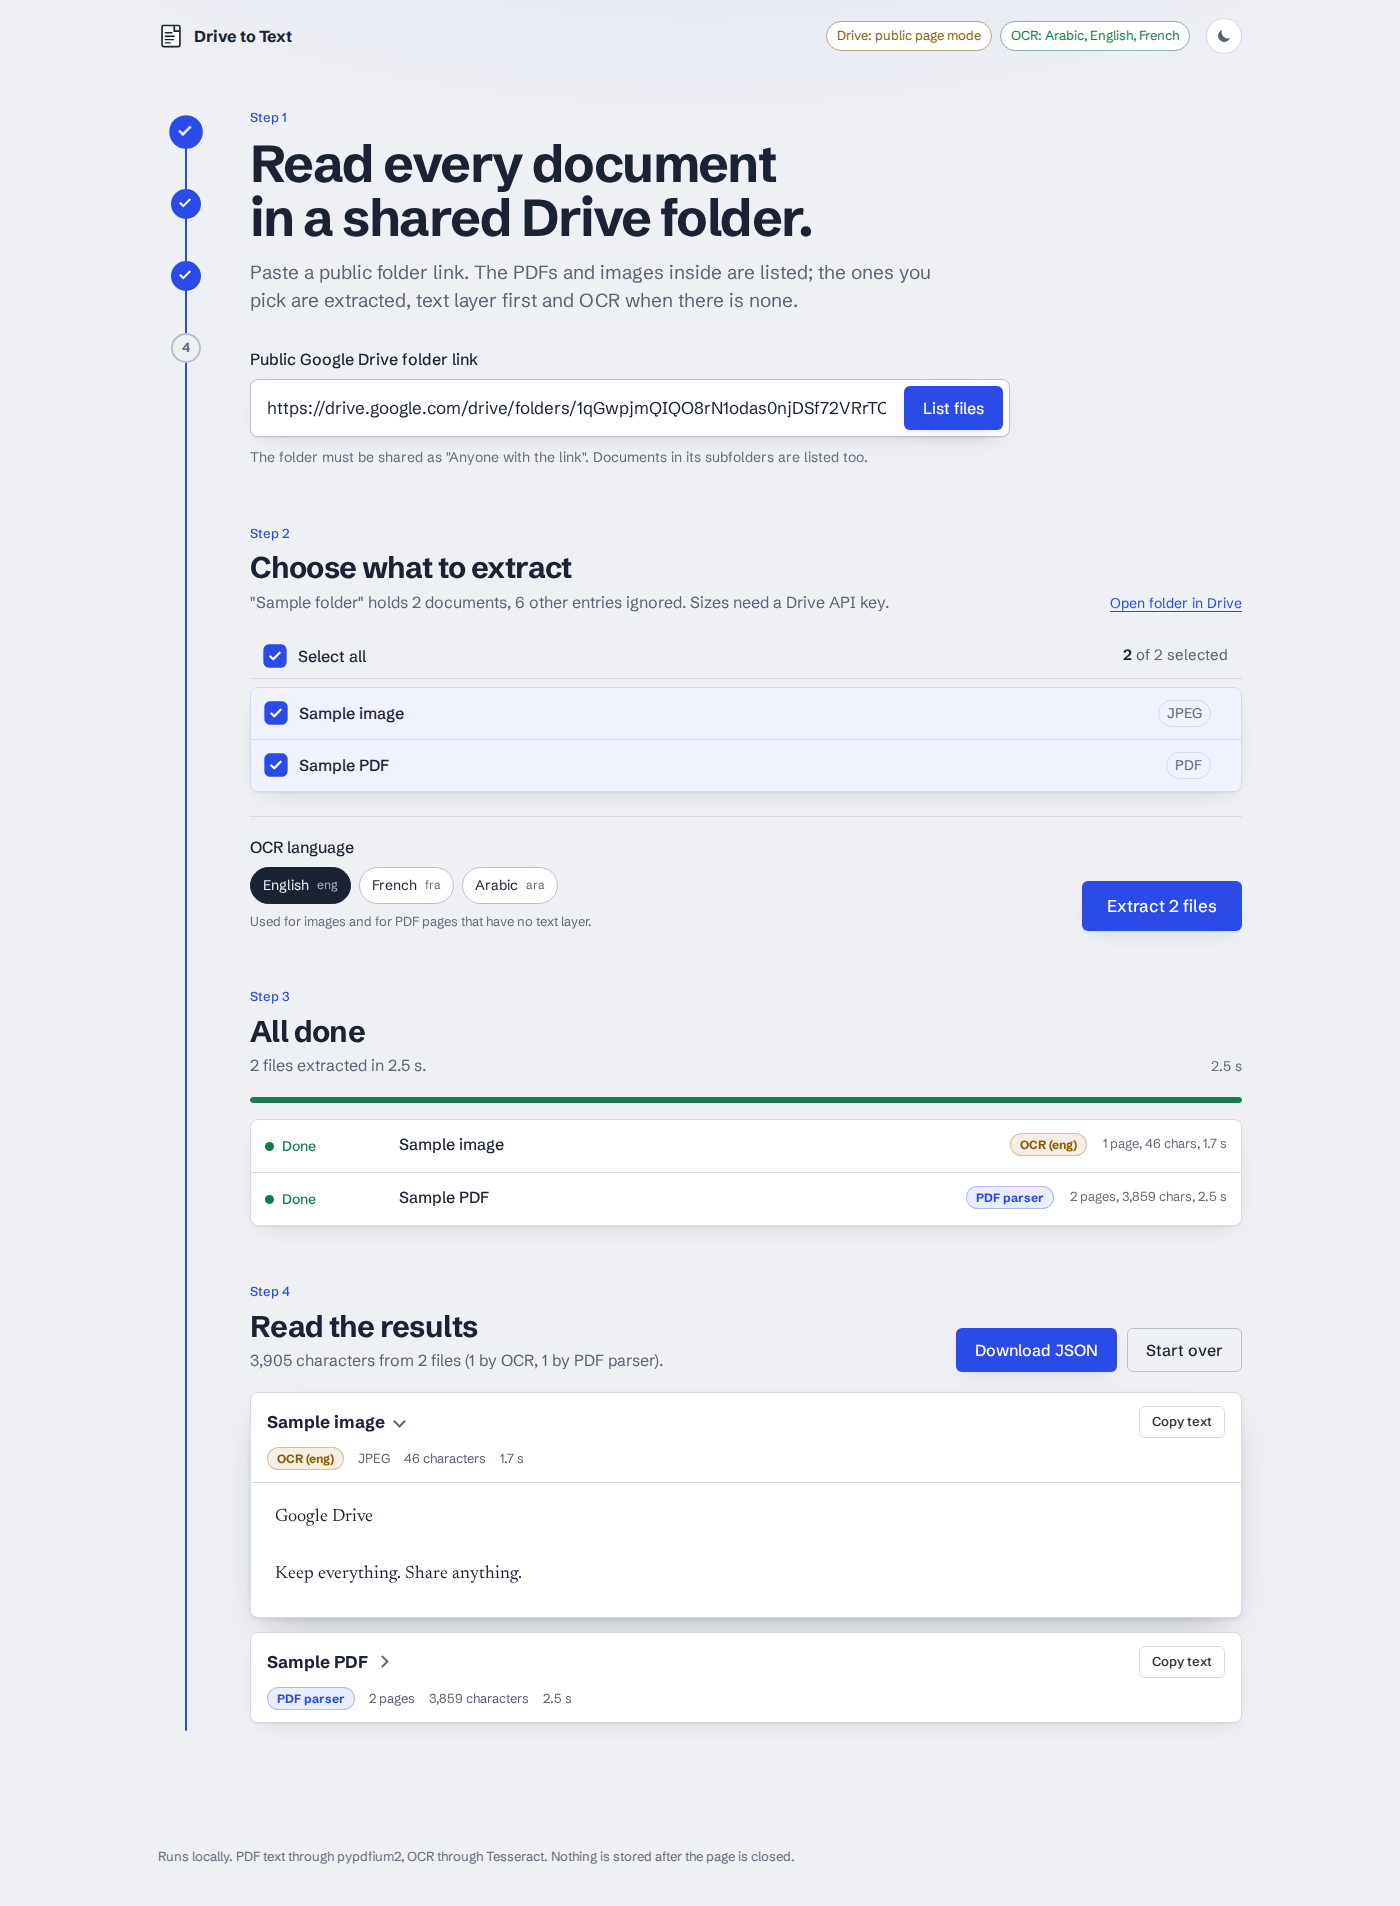
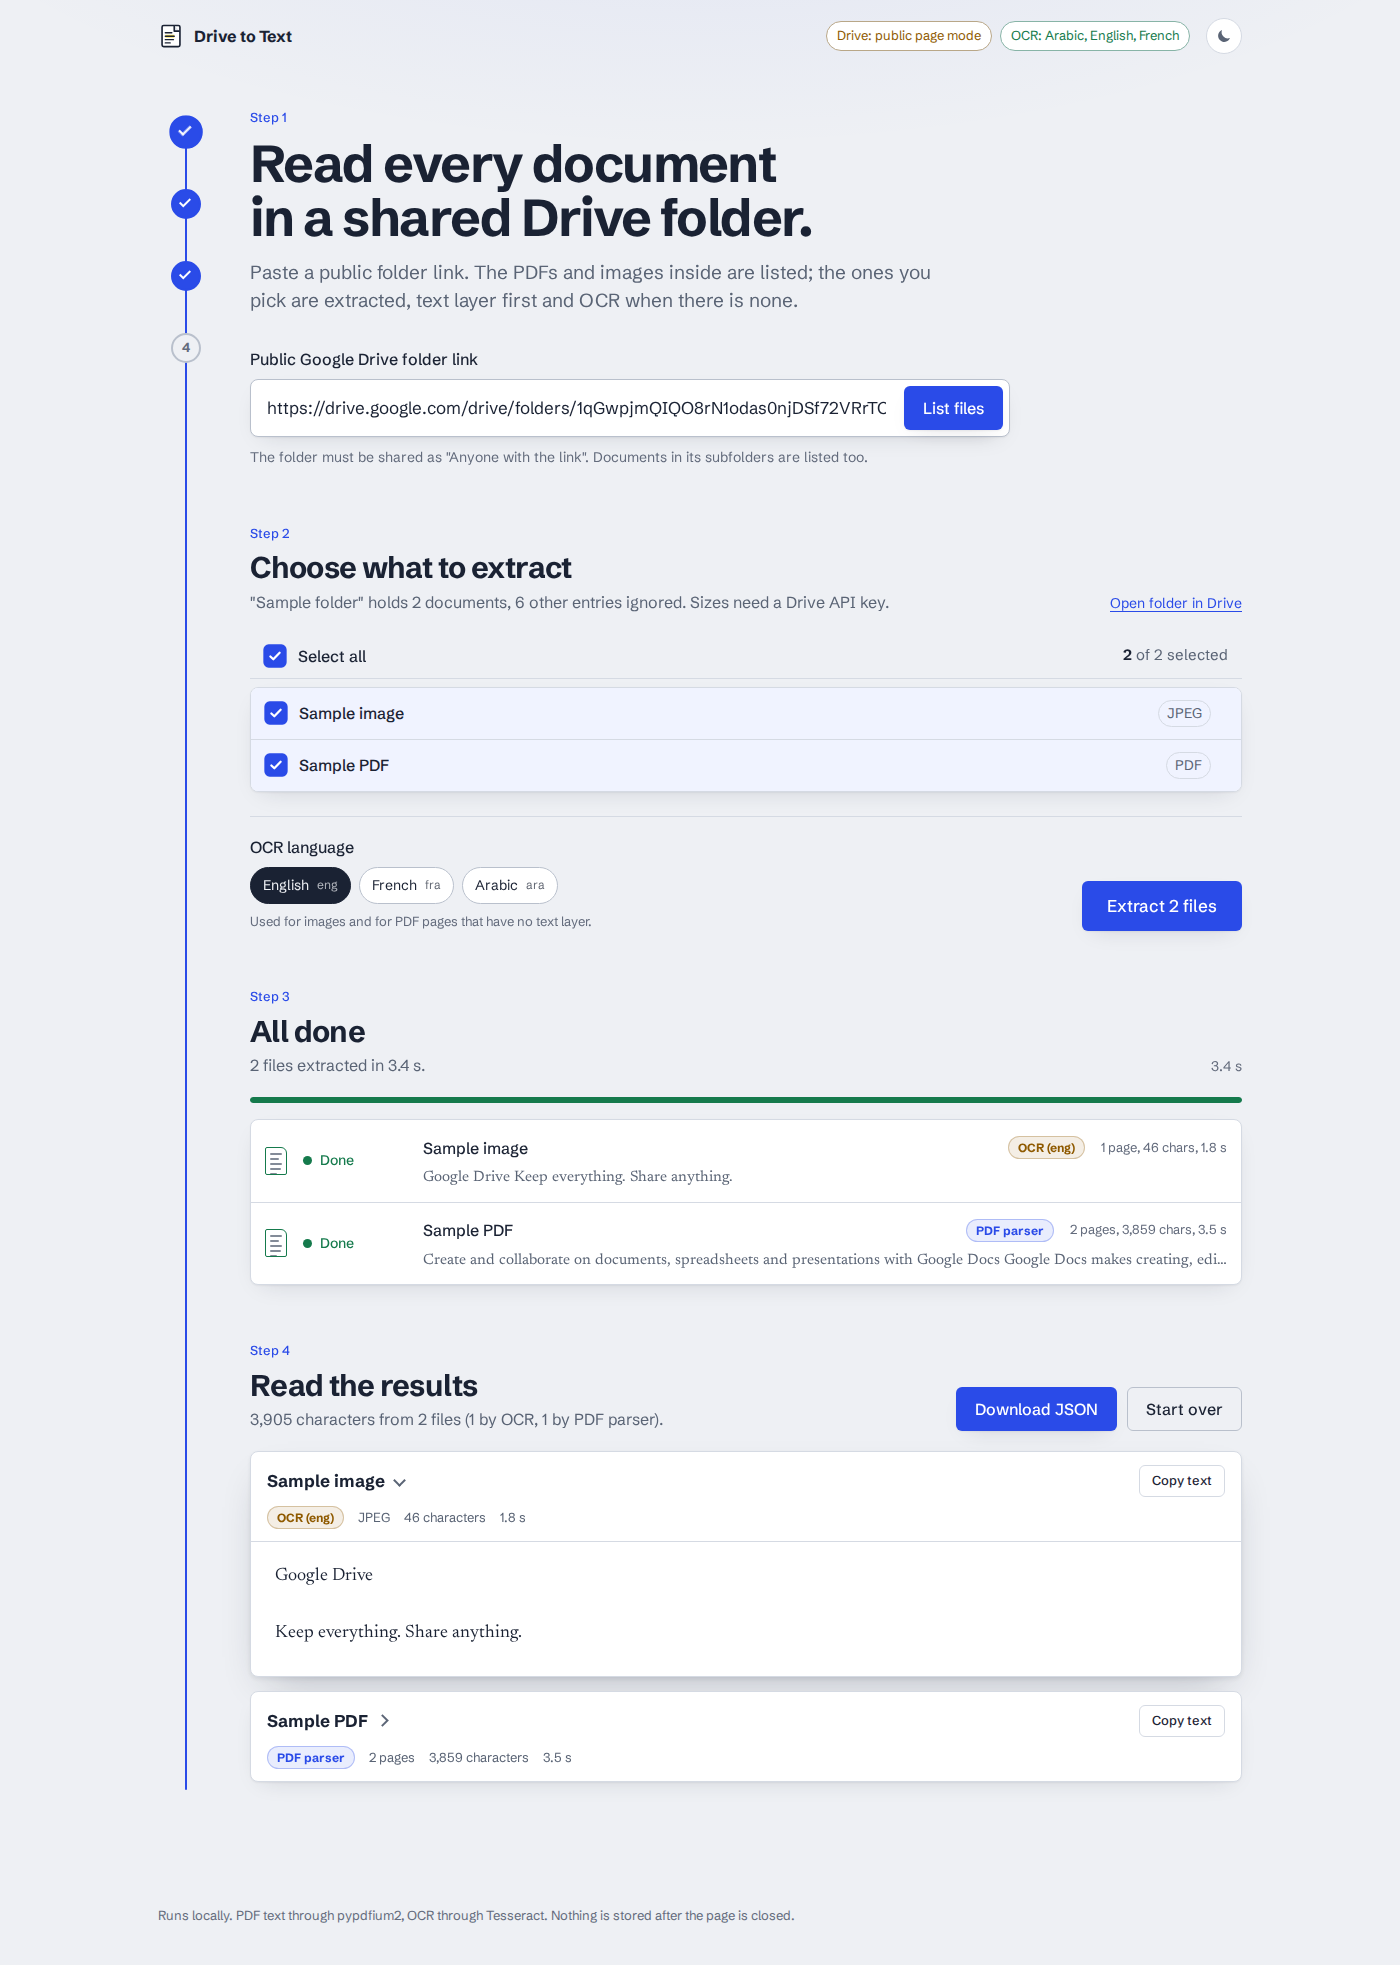
add new animation

diff --git a/app/static/styles.css b/app/static/styles.css
@@ -32,6 +32,7 @@
   --font-read: "Newsreader", "Iowan Old Style", "Palatino Linotype", Georgia, "Noto Naskh Arabic", serif;
   --ease-out: cubic-bezier(0.2, 0.7, 0.2, 1);
   --ease-spring: cubic-bezier(0.34, 1.4, 0.64, 1);
+  --ease-in-out: cubic-bezier(0.77, 0, 0.175, 1);
   --t-fast: 160ms;
   --t-base: 280ms;
   --t-slow: 520ms;
@@ -416,12 +417,11 @@ a:hover { color: var(--blue-deep); }
 .button-small:hover { border-color: var(--rule-strong); }
 
 /* Loader: a sheet being read. Its lines fill in one after another, the same sheet as
-   the app icon. Used in busy buttons and on files being processed. */
+   the app icon. Used in busy buttons; files being processed get the larger .job-page. */
 .button-spinner { display: none; }
 .button.is-busy .button-spinner { display: inline-block; }
 .button.is-busy .button-label { opacity: 0.85; }
-.button-spinner,
-.job-row[data-status="processing"] .job-dot {
+.button-spinner {
   position: relative;
   flex: none;
   width: 14px;
@@ -431,8 +431,7 @@ a:hover { color: var(--blue-deep); }
   background: none;
   overflow: hidden;
 }
-.button-spinner::before,
-.job-row[data-status="processing"] .job-dot::before {
+.button-spinner::before {
   content: "";
   position: absolute;
   z-index: 1;
@@ -441,8 +440,7 @@ a:hover { color: var(--blue-deep); }
   background: repeating-linear-gradient(to bottom, currentColor 0 1.5px, transparent 1.5px 4px);
   opacity: 0.3;
 }
-.button-spinner::after,
-.job-row[data-status="processing"] .job-dot::after {
+.button-spinner::after {
   content: "";
   position: absolute;
   left: 1px;
@@ -499,6 +497,80 @@ a:hover { color: var(--blue-deep); }
 
 .field-error { margin: 10px 0 0; color: var(--bad); font-weight: 500; }
 .field-hint { margin: 10px 0 0; color: var(--ink-3); font-size: 14px; }
+
+/* Fetching: sheets leave the Drive folder and land in the list while the folder is read.
+   It waits 250ms before showing, so a fast listing never flashes it. */
+.fetching {
+  display: flex;
+  align-items: center;
+  gap: 20px;
+  margin-top: 18px;
+  padding: 12px 20px 12px 16px;
+  background: var(--sheet);
+  border: 1px solid var(--rule);
+  border-radius: 8px;
+  box-shadow: var(--shadow);
+  animation: rise var(--t-base) 250ms var(--ease-out) both;
+}
+.fetch-text { margin: 0; color: var(--ink-2); font-weight: 500; }
+.fetch-art { position: relative; flex: none; width: 176px; height: 60px; }
+.fetch-folder,
+.fetch-folder-front { position: absolute; left: 0; width: 44px; border: 1.5px solid var(--blue); }
+.fetch-folder { top: 20px; height: 32px; border-radius: 2px 6px 5px 5px; background: var(--blue-soft); }
+.fetch-folder::before {
+  content: "";
+  position: absolute;
+  left: -1.5px;
+  top: -7px;
+  width: 18px;
+  height: 7px;
+  border: 1.5px solid var(--blue);
+  border-bottom: 0;
+  border-radius: 3px 3px 0 0;
+  background: var(--blue-soft);
+}
+.fetch-folder-front { top: 32px; height: 20px; border-radius: 3px 3px 5px 5px; background: color-mix(in srgb, var(--blue) 22%, var(--sheet)); }
+.fetch-sheet {
+  position: absolute;
+  left: 13px;
+  top: 22px;
+  width: 16px;
+  height: 20px;
+  padding: 4px 3px;
+  border: 1.5px solid var(--ink-2);
+  border-radius: 1px 4px 1px 1px;
+  background: repeating-linear-gradient(to bottom, var(--ink-3) 0 1.5px, transparent 1.5px 4px) content-box, var(--sheet);
+  opacity: 0;
+  animation: fetch-fly 2.4s var(--ease-in-out) infinite;
+}
+.fetch-sheet:nth-child(2) { --tx: 61px; --ty: -18px; }
+.fetch-sheet:nth-child(3) { --tx: 61px; --ty: -2px; animation-delay: 0.8s; }
+.fetch-sheet:nth-child(4) { --tx: 61px; --ty: 14px; animation-delay: 1.6s; }
+.fetch-slot { position: absolute; left: 82px; height: 8px; border-radius: 4px; background: var(--rule); overflow: hidden; }
+.fetch-slot::after {
+  content: "";
+  position: absolute;
+  inset: 0;
+  background: var(--blue);
+  transform-origin: left center;
+  transform: scaleX(0);
+  animation: fetch-fill 2.4s var(--ease-out) infinite;
+  animation-delay: inherit;
+}
+.fetch-slot:nth-child(6) { top: 10px; width: 94px; }
+.fetch-slot:nth-child(7) { top: 26px; width: 72px; animation-delay: 0.8s; }
+.fetch-slot:nth-child(8) { top: 42px; width: 84px; animation-delay: 1.6s; }
+@keyframes fetch-fly {
+  0% { opacity: 0; transform: translate(0, 10px); }
+  14% { opacity: 1; transform: translate(0, -12px); }
+  52% { opacity: 1; transform: translate(var(--tx), var(--ty)) scale(0.8); }
+  64%, 100% { opacity: 0; transform: translate(calc(var(--tx) + 10px), var(--ty)) scale(0.5); }
+}
+@keyframes fetch-fill {
+  0%, 52% { opacity: 1; transform: scaleX(0); }
+  72% { opacity: 1; transform: scaleX(1); }
+  94%, 100% { opacity: 0; transform: scaleX(1); }
+}
 
 @keyframes nudge {
   0%, 100% { transform: translateX(0); }
@@ -666,10 +738,14 @@ a:hover { color: var(--blue-deep); }
 .job-row {
   position: relative;
   display: grid;
-  grid-template-columns: 118px minmax(0, 1fr) auto auto;
-  grid-template-areas: "status name stamp meta" "status error error error";
+  grid-template-columns: 22px 104px minmax(0, 1fr) auto auto;
+  grid-template-areas:
+    "page status name stamp meta"
+    "page status snippet snippet snippet"
+    "page status error error error";
+  grid-template-rows: minmax(31px, auto); /* the page's height, so a lone name centres on it */
   align-items: center;
-  gap: 4px 16px;
+  gap: 0 16px;
   padding: 12px 14px;
   border-top: 1px solid var(--rule);
   overflow: hidden;
@@ -681,6 +757,7 @@ a:hover { color: var(--blue-deep); }
 .job-status { grid-area: status; display: inline-flex; align-items: center; gap: 8px; font-size: 14px; color: var(--ink-2); font-weight: 500; }
 .job-dot { width: 9px; height: 9px; border-radius: 50%; background: var(--rule-strong); flex: none; transition: background var(--t-base); }
 .job-row[data-status="processing"] .job-status { color: var(--blue); }
+.job-row[data-status="processing"] .job-dot { background: var(--blue); }
 .job-row[data-status="done"] .job-dot { background: var(--ok); }
 .job-row[data-status="done"] .job-status { color: var(--ok); }
 .job-row[data-status="failed"] .job-dot { background: var(--bad); }
@@ -688,20 +765,74 @@ a:hover { color: var(--blue-deep); }
 
 .job-name { grid-area: name; min-width: 0; overflow: hidden; text-overflow: ellipsis; white-space: nowrap; font-weight: 500; }
 .job-meta { grid-area: meta; font-size: 13px; color: var(--ink-3); white-space: nowrap; }
-.job-error { grid-area: error; margin: 2px 0 0; font-size: 14px; color: var(--bad); }
-
-.job-scan {
-  position: absolute;
-  inset: 0;
-  pointer-events: none;
-  opacity: 0;
-  background: linear-gradient(90deg, transparent, color-mix(in srgb, var(--blue) 22%, transparent) 50%, transparent);
-  background-size: 40% 100%;
-  background-repeat: no-repeat;
-  background-position: -40% 0;
+.job-error { grid-area: error; margin: 4px 0 0; font-size: 14px; color: var(--bad); }
+.job-snippet {
+  grid-area: snippet;
+  margin: 4px 0 0;
+  min-width: 0;
+  overflow: hidden;
+  text-overflow: ellipsis;
+  white-space: nowrap;
+  font-family: var(--font-read);
+  font-size: 15px;
+  color: var(--ink-2);
 }
-.job-row[data-status="processing"] .job-scan { opacity: 1; animation: scan 1.3s var(--ease-out) infinite; }
-@keyframes scan { from { background-position: -40% 0; } to { background-position: 140% 0; } }
+.job-snippet.is-revealing { animation: snippet-wipe 700ms var(--ease-out) both; }
+@keyframes snippet-wipe {
+  from { opacity: 0.4; clip-path: inset(0 100% 0 0); }
+  to { opacity: 1; clip-path: inset(0 0 0 0); }
+}
+
+/* The page of each file: faint while waiting, lines written while the server reads it
+   (plus a scan beam for images, which always go through OCR), settled when done. */
+.job-page {
+  grid-area: page;
+  position: relative;
+  display: flex;
+  flex-direction: column;
+  gap: 3px;
+  width: 22px;
+  height: 28px;
+  padding: 5px 4px 0;
+  border: 1.5px solid var(--rule-strong);
+  border-radius: 2px 6px 2px 2px;
+  background: var(--sheet);
+  overflow: hidden;
+  transition: border-color var(--t-base);
+}
+.job-page i { display: block; flex: none; height: 2px; border-radius: 1px; background: var(--ink-3); opacity: 0.3; transform-origin: left center; }
+.job-page i:nth-child(2) { width: 75%; }
+.job-page i:nth-child(4) { width: 90%; }
+.job-page i:nth-child(5) { width: 55%; }
+.job-beam {
+  position: absolute;
+  left: 0;
+  right: 0;
+  top: 0;
+  height: 8px;
+  border-bottom: 1.5px solid var(--blue);
+  background: linear-gradient(to bottom, transparent, color-mix(in srgb, var(--blue) 40%, transparent));
+  opacity: 0;
+  transform: translateY(-10px);
+}
+.job-row[data-status="processing"] .job-page { border-color: var(--blue); }
+.job-row[data-status="processing"] .job-page i { background: var(--blue); animation: page-write 1.6s var(--ease-out) infinite; }
+.job-row[data-status="processing"] .job-page i:nth-child(2) { animation-delay: 0.12s; }
+.job-row[data-status="processing"] .job-page i:nth-child(3) { animation-delay: 0.24s; }
+.job-row[data-status="processing"] .job-page i:nth-child(4) { animation-delay: 0.36s; }
+.job-row[data-status="processing"] .job-page i:nth-child(5) { animation-delay: 0.48s; }
+.job-row[data-status="processing"][data-kind="image"] .job-beam { opacity: 1; animation: page-beam 1.4s var(--ease-in-out) infinite alternate; }
+.job-row[data-status="done"] .job-page { border-color: var(--ok); animation: page-settle var(--t-base) var(--ease-out); }
+.job-row[data-status="done"] .job-page i { background: var(--ink-2); opacity: 0.75; }
+.job-row[data-status="failed"] .job-page { border-color: var(--bad); }
+.job-row[data-status="failed"] .job-page i { opacity: 0.15; }
+@keyframes page-write {
+  0% { opacity: 1; transform: scaleX(0); }
+  30%, 78% { opacity: 1; transform: scaleX(1); }
+  100% { opacity: 0.25; transform: scaleX(1); }
+}
+@keyframes page-beam { from { transform: translateY(-8px); } to { transform: translateY(26px); } }
+@keyframes page-settle { from { transform: scale(0.9); } }
 
 /* stamps */
 
@@ -822,7 +953,8 @@ a:hover { color: var(--blue-deep); }
   .link-field .button { width: 100%; }
   .file-row { grid-template-columns: minmax(0, 1fr) auto; }
   .file-size { display: none; }
-  .job-row { grid-template-columns: minmax(0, 1fr) auto; grid-template-areas: "status meta" "name name" "stamp stamp" "error error"; }
+  .job-row { grid-template-columns: 22px minmax(0, 1fr) auto; grid-template-areas: "page status meta" "page name name" "page stamp stamp" "page snippet snippet" "page error error"; }
+  .fetch-art { transform: scale(0.8); transform-origin: left center; margin-right: -35px; }
   .run-action { align-items: stretch; width: 100%; }
   .stage-actions { width: 100%; }
   .stage-actions .button { flex: 1; }
@@ -833,9 +965,11 @@ a:hover { color: var(--blue-deep); }
 
 @media (prefers-reduced-motion: reduce) {
   html { scroll-behavior: auto; }
-  *, *::before, *::after { animation-duration: 0.01ms !important; animation-iteration-count: 1 !important; transition-duration: 0.01ms !important; }
+  *, *::before, *::after { animation-duration: 0.01ms !important; animation-delay: 0s !important; animation-iteration-count: 1 !important; transition-duration: 0.01ms !important; }
   .splash { display: none; }
   ::view-transition-old(root), ::view-transition-new(root) { animation: none; }
   .file-row, .sheet { opacity: 1; transform: none; }
-  .job-row[data-status="processing"] .job-scan { opacity: 0; }
+  .fetch-sheet, .job-beam { display: none; }
+  .fetch-slot::after { animation: none; transform: scaleX(0.6); }
+  .job-row[data-status="processing"] .job-page i { animation: none; opacity: 1; }
 }

diff --git a/app/static/app.js b/app/static/app.js
@@ -33,6 +33,7 @@ const el = {
   linkInput: $("linkInput"),
   linkSubmit: $("linkSubmit"),
   linkError: $("linkError"),
+  fetching: $("fetching"),
   filesTitle: $("filesTitle"),
   folderSummary: $("folderSummary"),
   folderLink: $("folderLink"),
@@ -239,6 +240,7 @@ el.linkForm.addEventListener("submit", async (event) => {
   }
   setBusy(el.linkSubmit, true);
   el.linkField.classList.add("is-busy");
+  el.fetching.hidden = false;
   closeStagesAfter("link");
   stopBatchStream();
   try {
@@ -254,6 +256,7 @@ el.linkForm.addEventListener("submit", async (event) => {
   } finally {
     setBusy(el.linkSubmit, false);
     el.linkField.classList.remove("is-busy");
+    el.fetching.hidden = true;
   }
 });
 
@@ -492,6 +495,7 @@ function applySnapshot(snapshot) {
 function renderJob(job) {
   const node = tpl.job.content.firstElementChild.cloneNode(true);
   node.dataset.id = job.id;
+  node.dataset.kind = job.kind;
   node.querySelector(".job-name").textContent = filePath(job);
   updateJobNode(node, job);
   return node;
@@ -529,9 +533,24 @@ function updateJobNode(node, job, previousStatus) {
   if (job.duration_ms != null) meta.push(formatDuration(job.duration_ms));
   node.querySelector(".job-meta").textContent = meta.join(", ");
 
+  // The first words actually read from the file, wiped in when it finishes live.
+  const snippet = node.querySelector(".job-snippet");
+  const preview = job.status === "done" ? snippetOf(job.text) : "";
+  if (preview && snippet.hidden) {
+    snippet.textContent = preview;
+    snippet.classList.toggle("is-revealing", Boolean(previousStatus) && previousStatus !== "done");
+    snippet.hidden = false;
+  } else if (!preview) {
+    snippet.hidden = true;
+  }
+
   const error = node.querySelector(".job-error");
   error.textContent = job.error || "";
   error.hidden = !job.error;
+}
+
+function snippetOf(text) {
+  return (text || "").replace(/\s+/g, " ").trim().slice(0, 160);
 }
 
 function setProgress(percent) {

diff --git a/app/static/index.html b/app/static/index.html
@@ -85,6 +85,19 @@
           </div>
           <p class="field-error" id="linkError" role="alert" hidden></p>
           <p class="field-hint" id="linkHint">The folder must be shared as "Anyone with the link". Documents in its subfolders are listed too.</p>
+          <div class="fetching" id="fetching" hidden>
+            <div class="fetch-art" aria-hidden="true">
+              <span class="fetch-folder"></span>
+              <span class="fetch-sheet"></span>
+              <span class="fetch-sheet"></span>
+              <span class="fetch-sheet"></span>
+              <span class="fetch-folder-front"></span>
+              <span class="fetch-slot"></span>
+              <span class="fetch-slot"></span>
+              <span class="fetch-slot"></span>
+            </div>
+            <p class="fetch-text" role="status">Reading the folder on Drive</p>
+          </div>
         </form>
       </div>
     </section>
@@ -183,12 +196,13 @@
 
 <template id="tpl-job">
   <li class="job-row" data-status="pending">
+    <span class="job-page" aria-hidden="true"><i></i><i></i><i></i><i></i><i></i><b class="job-beam"></b></span>
     <span class="job-status"><span class="job-dot" aria-hidden="true"></span><span class="job-status-text">Pending</span></span>
     <span class="job-name"></span>
     <span class="job-stamp" hidden></span>
     <span class="job-meta"></span>
+    <p class="job-snippet" hidden></p>
     <p class="job-error" hidden></p>
-    <span class="job-scan" aria-hidden="true"></span>
   </li>
 </template>
 

diff --git a/tests/test_static_contrast.py b/tests/test_static_contrast.py
@@ -120,9 +120,33 @@ def _keyframes(name: str) -> str:
 
 def test_loader_and_stage_motion_animate_only_compositor_properties() -> None:
     # transform and opacity skip layout and paint; anything else would repaint every frame.
-    for name in ("read", "stage-rise", "badge-in"):
+    for name in (
+        "read",
+        "stage-rise",
+        "badge-in",
+        "fetch-fly",
+        "fetch-fill",
+        "page-write",
+        "page-beam",
+        "page-settle",
+    ):
         props = set(re.findall(r"([a-z-]+)\s*:", _keyframes(name)))
         assert props <= {"transform", "opacity"}, f"@keyframes {name} animates {props}"
+    # clip-path is composited too; the snippet reveal wipes the first words in with it.
+    props = set(re.findall(r"([a-z-]+)\s*:", _keyframes("snippet-wipe")))
+    assert props <= {"clip-path", "opacity"}
+
+
+def test_reduced_motion_stops_the_fetch_and_reading_loops() -> None:
+    reduced = CSS[CSS.index("@media (prefers-reduced-motion: reduce)") :]
+    assert ".fetch-sheet, .job-beam { display: none; }" in reduced
+    assert '.job-row[data-status="processing"] .job-page i { animation: none;' in reduced
+
+
+def test_no_inline_style_attributes() -> None:
+    # The CSP allows only stylesheet files (style-src 'self'), so style="" would be dropped.
+    for page in ("index.html", "404.html", "docs.html"):
+        assert not re.search(r"\sstyle=", (STATIC / page).read_text()), page
 
 
 def test_no_yellow_highlighter_in_the_interface() -> None:
